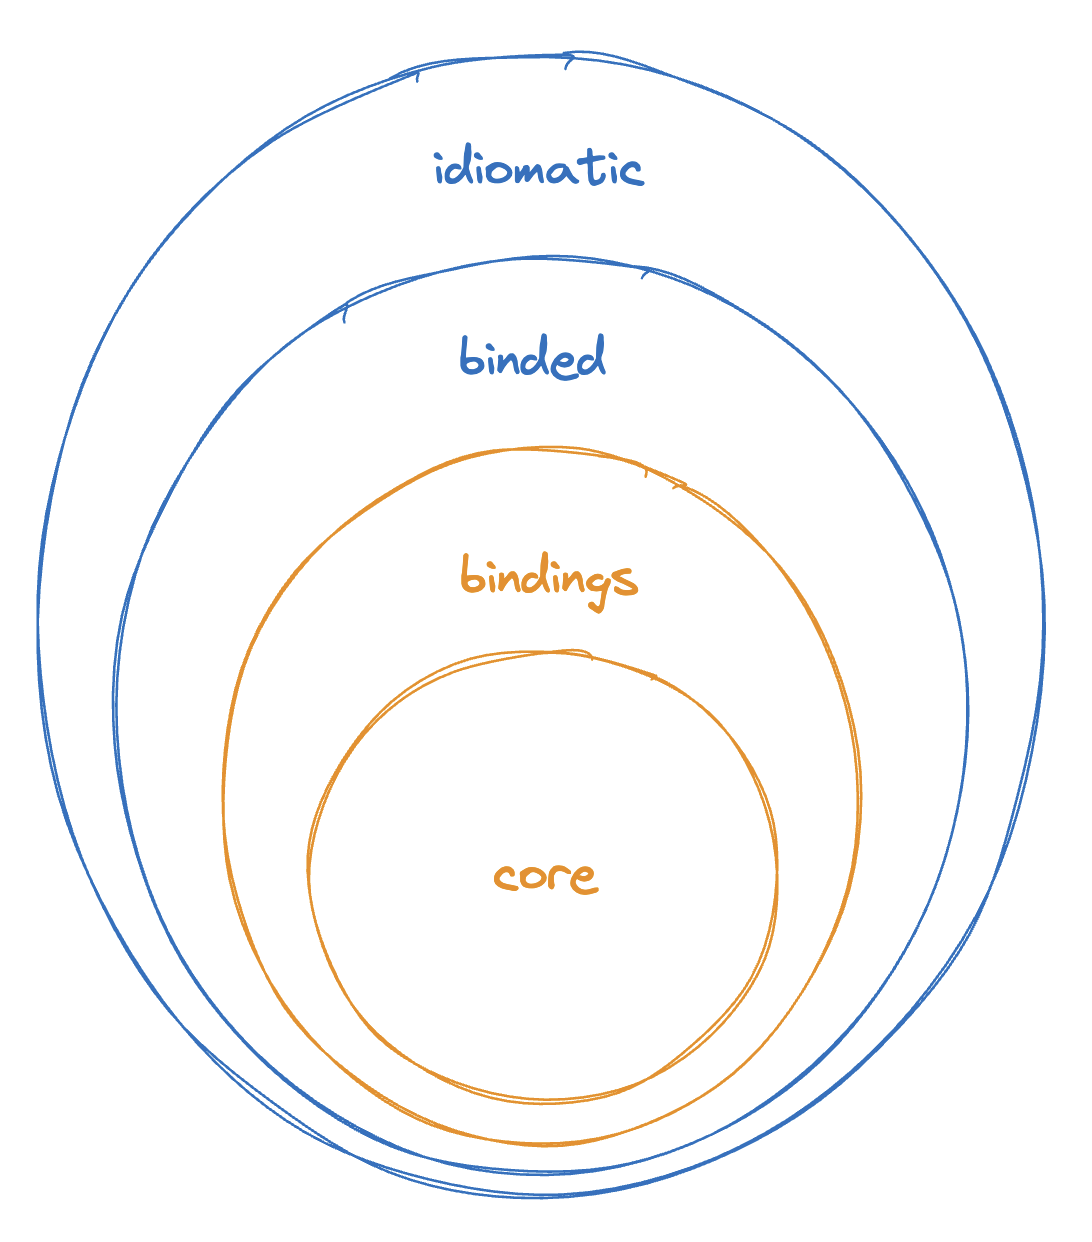
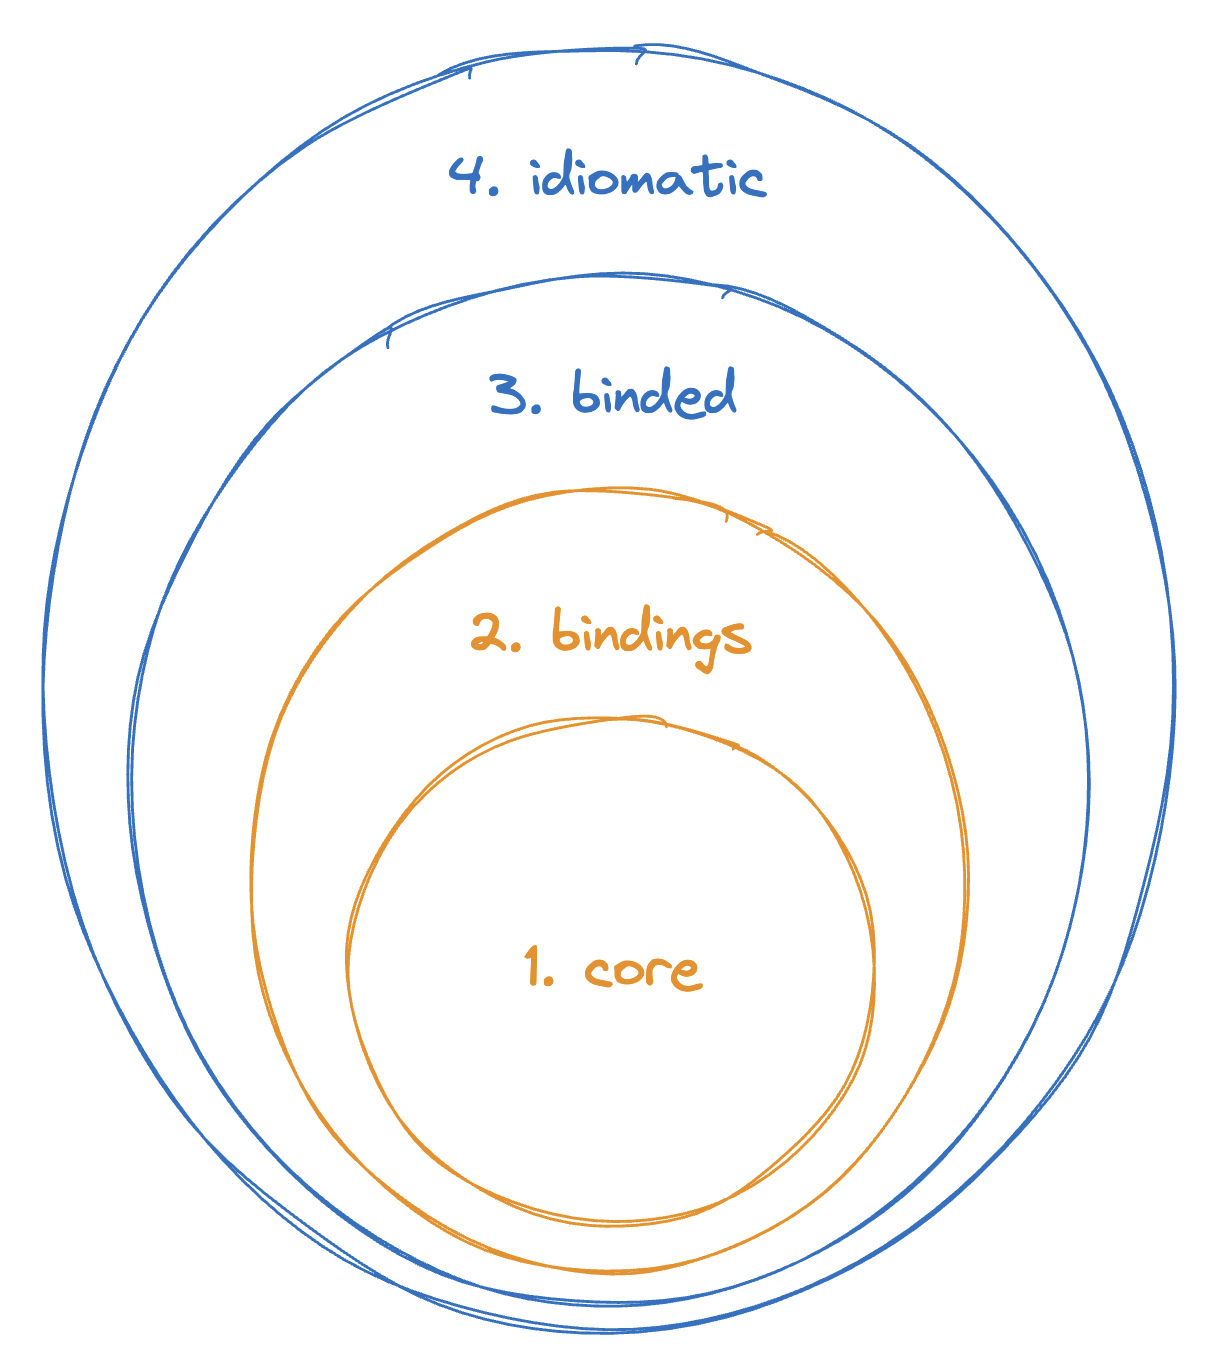
Adjusted the doc guide

diff --git a/docs/contributor-getting-started.md b/docs/contributor-getting-started.md
@@ -1,4 +1,11 @@
-# Contributor Getting Started
+# Contributor Getting Started <!-- omit in toc -->
+
+- [The "Onion"](#the-onion)
+  - [1. `core`](#1-core)
+  - [2. `bindings`](#2-bindings)
+  - [3. `binded`](#3-binded)
+  - [4. idiomatic](#4-idiomatic)
+- [Constriction of Cross-Language Binding](#constriction-of-cross-language-binding)
 
 ## The "Onion"
 
@@ -9,29 +16,33 @@
 - `binded` is non-rust code without concern for idioms
 - idiomatic is the expressive non-rust project, well-rounded, intended for developer consumption
 
-### `core`
+### 1. `core`
 
 `core` is where the uncompromising web5 rust code exists, without regard for binding. No circular dependencies shall exist. See each crate for more information.
 
 ![Dependency Diagram](./dependency-diagram.png)
 
-### `bindings`
+### 2. `bindings`
 
 `bindings` is where rust code exist for the purposes of binding to non-rust languages. This project makes use of [UniFFI](https://github.com/mozilla/uniffi-rs) for building and generating the cross-language bindings.
 
-In the case wherein an unknown type must cross the binding boundary (for example, in JavaScript that would be an `Object` or in Golang that would be an `interface {}`), we make available a custom type called `Unknown`. `Unknown` must be JSON-serializable safe. TODO what is the developer experience on both sides?
+In the case wherein an unknown type must cross the binding boundary (for example, in JavaScript that would be an `Object` or in Golang that would be an `interface {}`), we make available a custom type called `Unknown`. `Unknown` must be JSON-serializable safe.
 
-### `binded`
+> ⚠ **WARNING**: `Uknown` is not currently implemented, but stubbed in here for us to come back to
+
+### 3. `binded`
 
 `binded` is where the non-rust project exists without concern for idiomatic patterns in the given target language. Each binded project must have comprehensive unit test coverage. Current languages supported:
 
 - Kotlin
 - Swift
 
-### idiomatic
+### 4. idiomatic
 
 Idiomatic is the layer in which the non-rust project is built for developer consumption.
 
-## The Problem of DX & Cross-Language-Binding
+> ⚠ **WARNING**: Unclear exactly how this will manifest, TBD
+
+## Constriction of Cross-Language Binding
 
 ![Binding Problem](./binding-problem.png)
